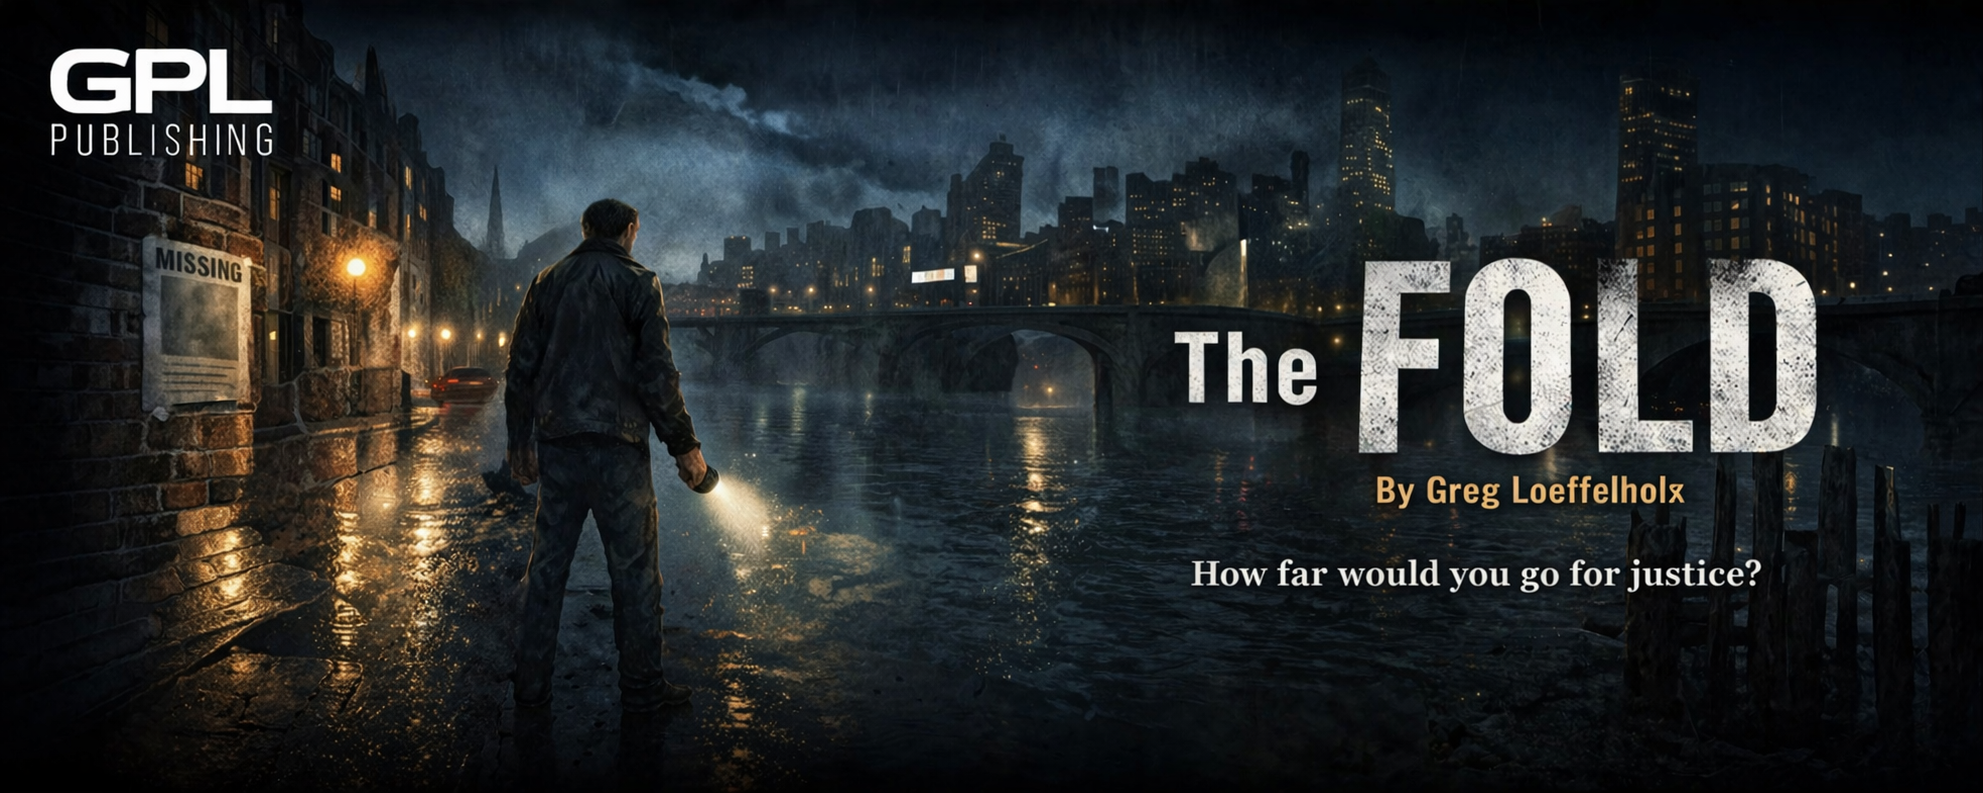
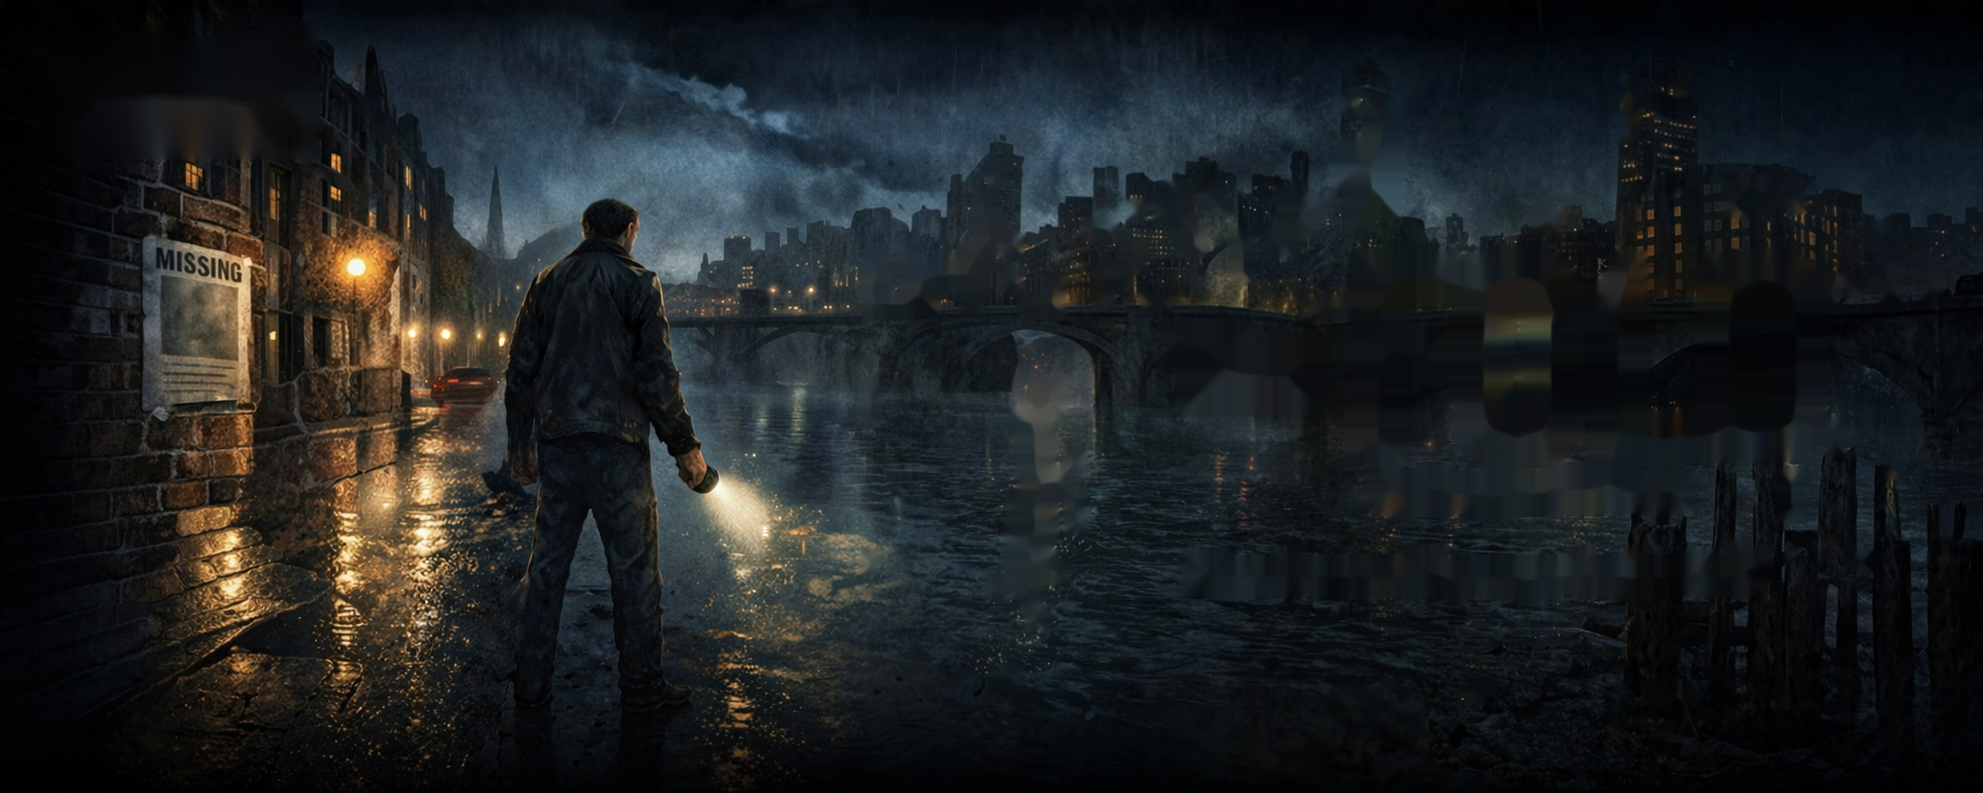
updates

diff --git a/index.html b/index.html
@@ -11,7 +11,7 @@
   <meta property="og:url" content="https://thefold.website" />
   <link rel="preconnect" href="https://fonts.googleapis.com" />
   <link rel="preconnect" href="https://fonts.gstatic.com" crossorigin />
-  <link href="https://fonts.googleapis.com/css2?family=Rubik+Dirt&family=Playfair+Display:ital,wght@0,400;0,700;0,900;1,400;1,700&family=Lato:wght@300;400;700&display=swap" rel="stylesheet" />
+  <link href="https://fonts.googleapis.com/css2?family=Rubik+Dirt&family=Anton&family=Playfair+Display:ital,wght@0,400;0,700;0,900;1,400;1,700&family=Lato:wght@300;400;700&display=swap" rel="stylesheet" />
 
   <style>
     *, *::before, *::after { box-sizing: border-box; margin: 0; padding: 0; }
@@ -121,7 +121,8 @@
       transition: color 0.2s;
     }
 
-    .nav-links a:hover { color: var(--white); }
+    .nav-links a:hover,
+    .nav-links a.active { color: var(--amber); }
 
     /* ─── HERO ─── */
     .hero {
@@ -132,29 +133,23 @@
       justify-content: center;
       overflow: hidden;
       padding: 5rem 2rem 4rem;
-      background-image: url('The fold - noir city mystery.png');
+      background-image: url('thefold.home1.png');
       background-size: cover;
-      background-position: center top;
+      background-position: center center;
       background-repeat: no-repeat;
     }
 
-    /* Dark cinematic overlay — heavier on left for legibility, reveals image on right */
+    /* Cinematic overlay — dark vignette at edges, allows image to breathe in centre */
     .hero::before {
       content: '';
       position: absolute;
       inset: 0;
       background:
-        linear-gradient(105deg,
-          rgba(5,9,15,0.92) 0%,
-          rgba(5,9,15,0.78) 45%,
-          rgba(5,9,15,0.35) 75%,
-          rgba(5,9,15,0.15) 100%
-        ),
         linear-gradient(180deg,
-          rgba(5,9,15,0.4) 0%,
-          transparent 30%,
-          transparent 70%,
-          rgba(5,9,15,0.7) 100%
+          rgba(5,9,15,0.68) 0%,
+          rgba(5,9,15,0.38) 35%,
+          rgba(5,9,15,0.45) 65%,
+          rgba(5,9,15,0.82) 100%
         );
     }
 
@@ -193,16 +188,16 @@
     }
 
     .hero-title-fold {
-      font-family: 'Rubik Dirt', cursive;
-      font-size: clamp(5rem, 12vw, 9rem);
+      font-family: 'Anton', sans-serif;
+      font-size: clamp(5.5rem, 13vw, 10rem);
       color: var(--white);
       line-height: 0.88;
       display: block;
+      letter-spacing: 0.06em;
       text-shadow:
-        0 0 80px rgba(120,180,240,0.12),
-        0 2px 0 rgba(0,0,0,0.8),
-        3px 3px 0 rgba(0,30,60,0.4);
-      letter-spacing: -0.01em;
+        0 0 100px rgba(120,180,240,0.18),
+        0 3px 0 rgba(0,0,0,0.9),
+        4px 4px 0 rgba(0,20,50,0.5);
     }
 
     .hero-author {

diff --git a/press.html b/press.html
@@ -83,7 +83,7 @@
       text-transform: uppercase;
       transition: color 0.2s;
     }
-    .nav-links a:hover, .nav-links a.active { color: var(--white); }
+    .nav-links a:hover, .nav-links a.active { color: var(--amber); }
 
     .page-header {
       position: relative;

diff --git a/about.html b/about.html
@@ -85,7 +85,7 @@
       text-transform: uppercase;
       transition: color 0.2s;
     }
-    .nav-links a:hover, .nav-links a.active { color: var(--white); }
+    .nav-links a:hover, .nav-links a.active { color: var(--amber); }
 
     /* Page header */
     .page-header {
